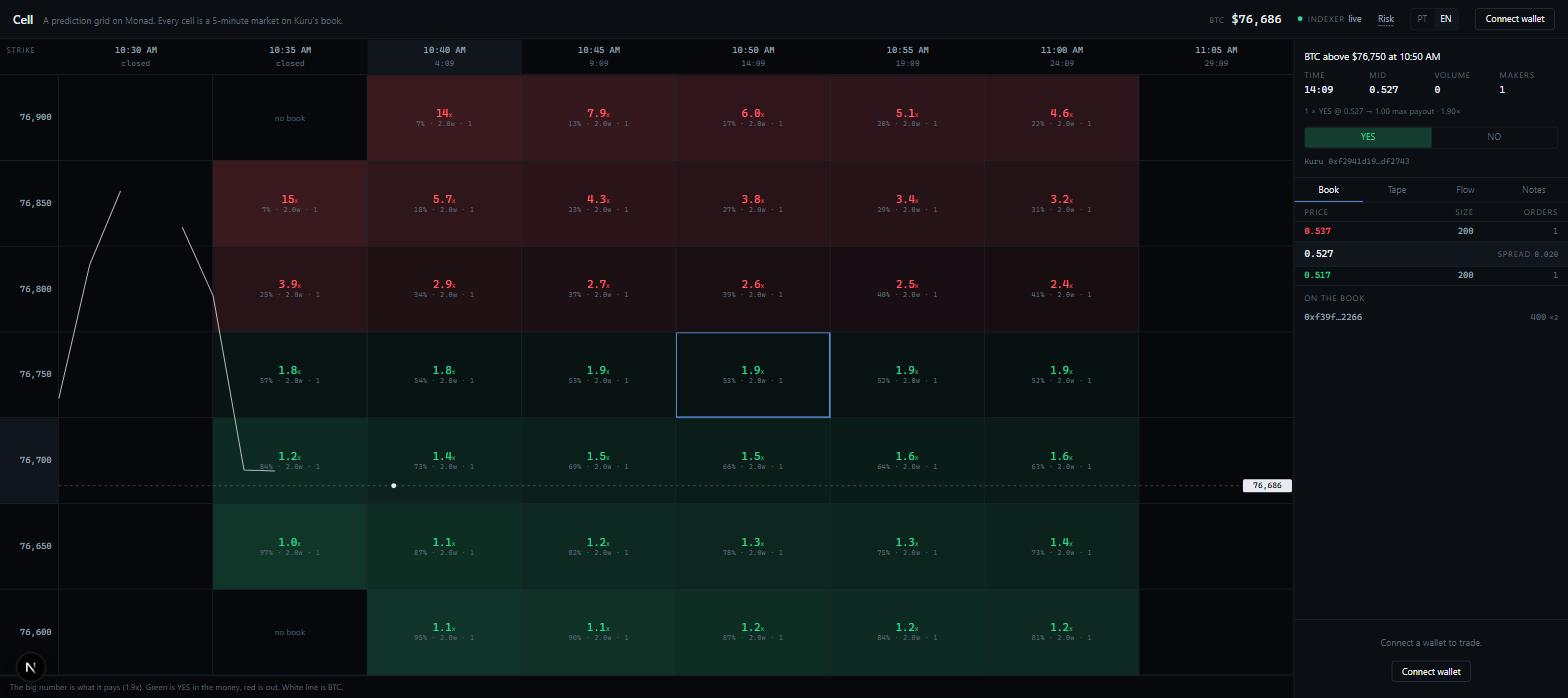
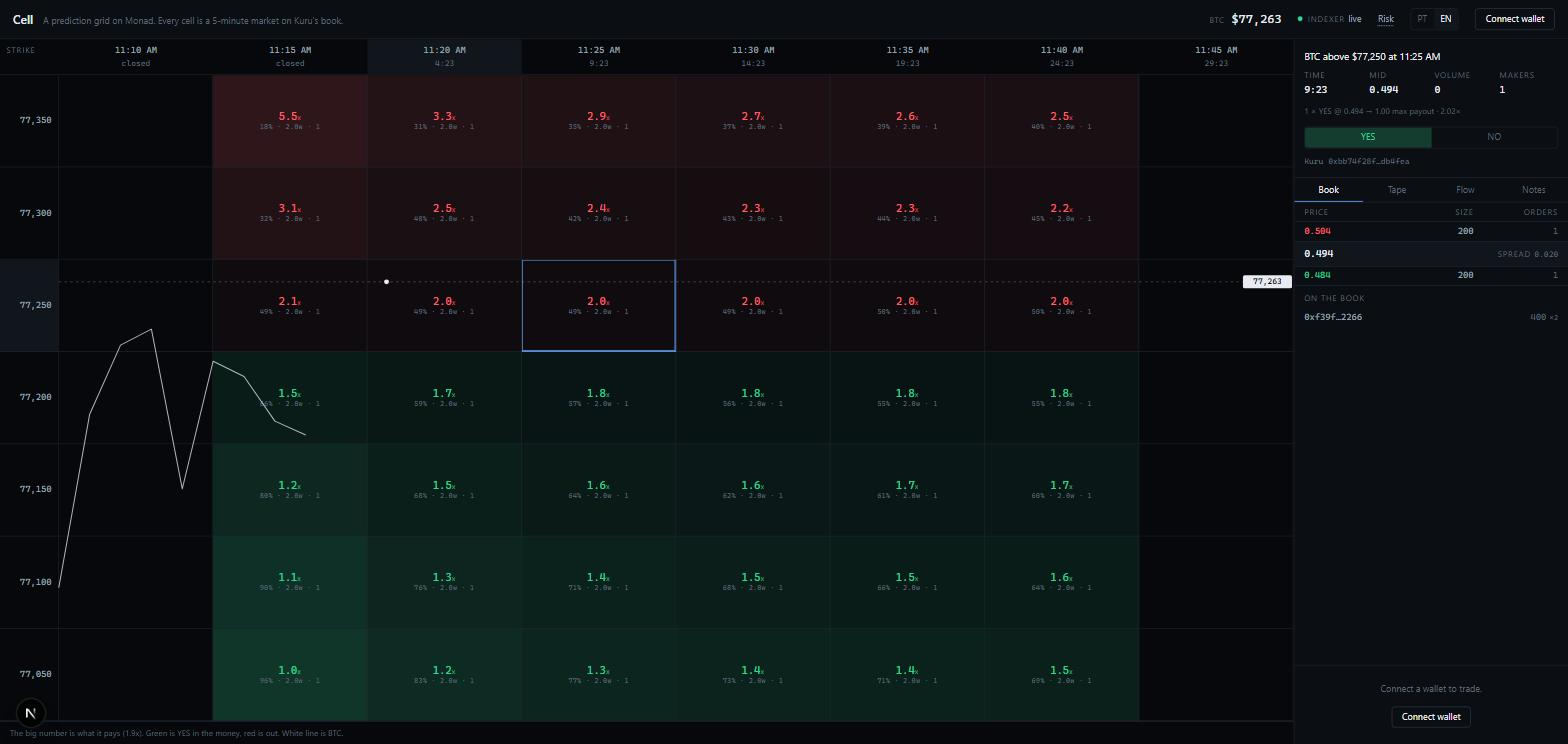
Screenshot the finished board
Taken against a Hardhat node with the roller, the seeder and the taker
script running: aligned $50 rows, BTC drawn across the board with spot on
its own axis badge, and one cell open showing the live book at
0.484/0.504 with the maker's address on it.

Claude-Session: https://claude.ai/code/session_01J8SDP2w5Qc3zKw9K8zVLVD

diff --git a/README.md b/README.md
@@ -10,7 +10,12 @@ Settlement is a Chainlink CRE workflow writing onchain.
 
 No mock books. No static JSON. If Kuru is down, Cell is down.
 
-![The grid: five-minute columns, a strike ladder for rows, BTC drawn across it](docs/img/grid.jpg)
+![The board: five-minute columns, a $50 strike ladder for rows, BTC drawn across it, and one cell open with its live Kuru book](docs/img/grid.jpg)
+
+*Left: the board. The big number in a cell is what it pays; the line under it is the
+implied probability, the market width, and how many makers stand behind it. Right:
+one cell open — the live L2 book from the indexer, the spread, and the address
+quoting it.*
 
 MIT licensed, public from commit 1.
 
